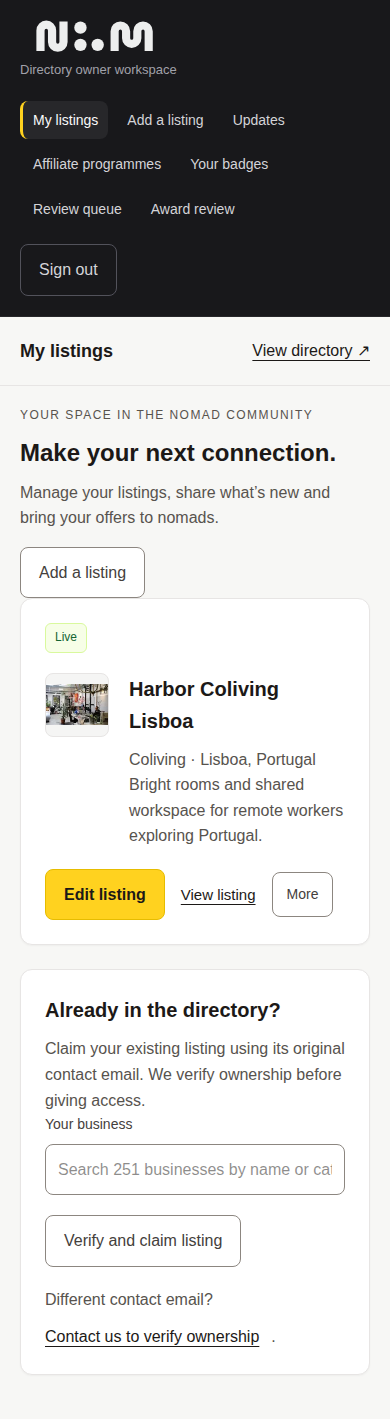
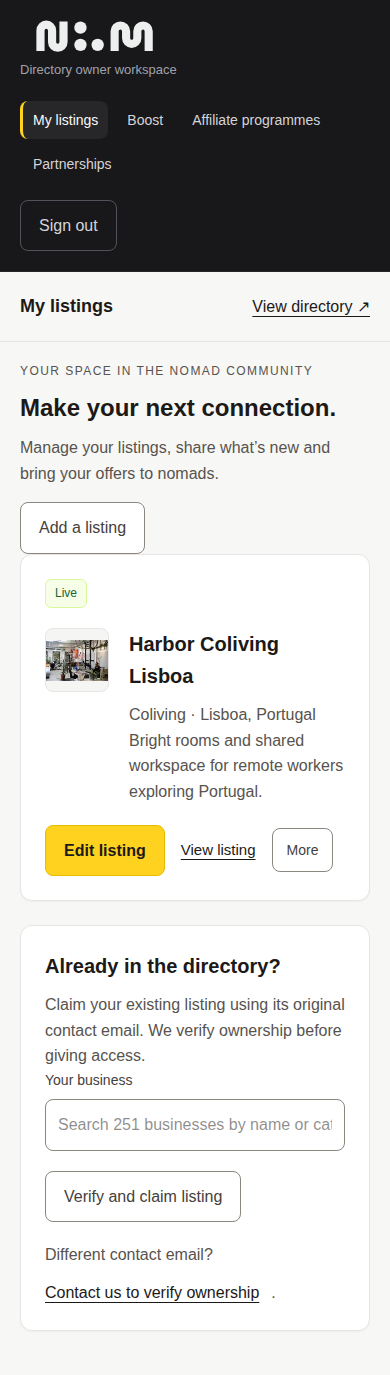
Trim owner console nav and add Boost and Partnerships placeholders
Owner-only sidebar, coming-soon pages, admin-only Updates in More menu, clearer listing status chips, and refreshed pr-54 screenshots.

Changed region(s): [[0.0, 0.0, 1.0, 0.5193], [0.0923, 0.4582, 0.8923, 0.9775], [0.7385, 0.6109, 0.8615, 0.6415]]

diff --git a/src/styles/console.css b/src/styles/console.css
@@ -196,6 +196,11 @@
   border-color: #bbf7d0;
   background: #f0fdf4;
 }
+.owner-console .tag.tag-pending {
+  color: #a16207;
+  border-color: #fde68a;
+  background: #fffbeb;
+}
 .owner-console .tag.tag-live {
   color: #166534;
   border-color: #d9f99d;
